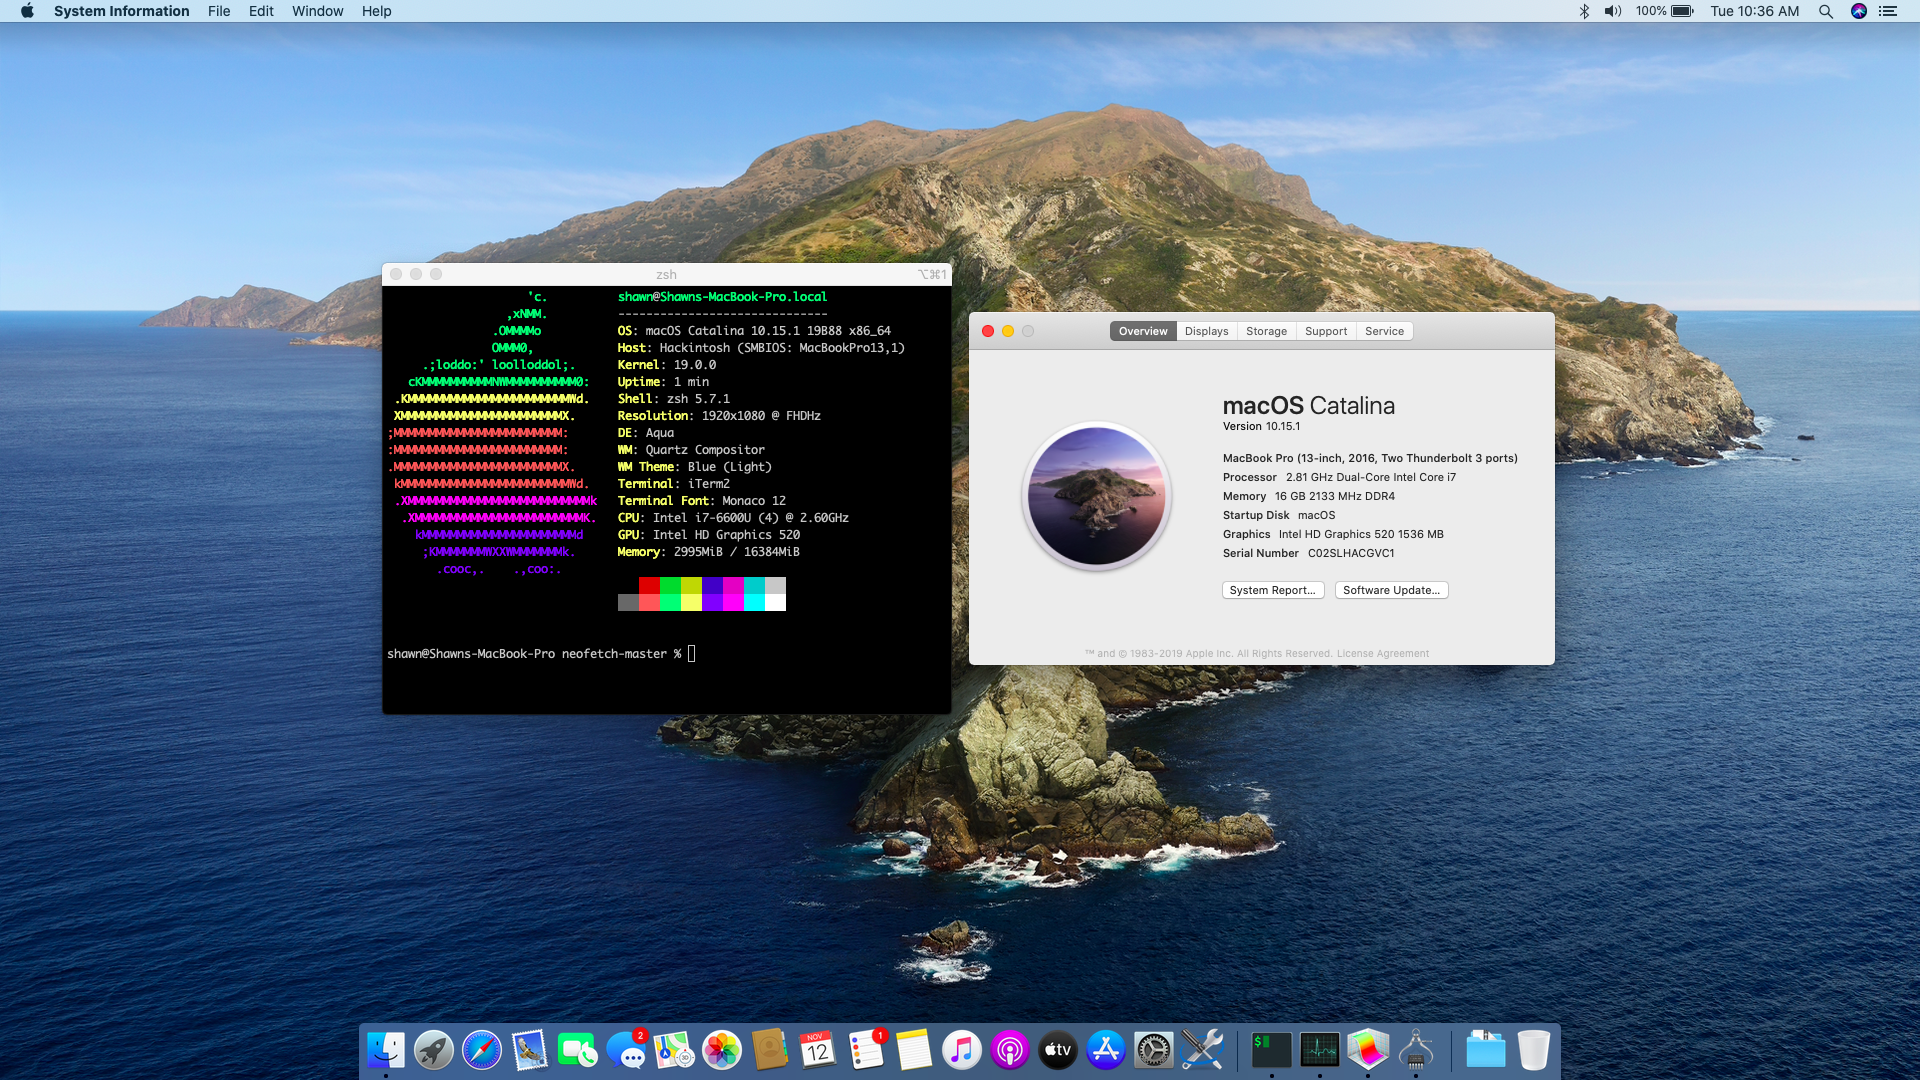
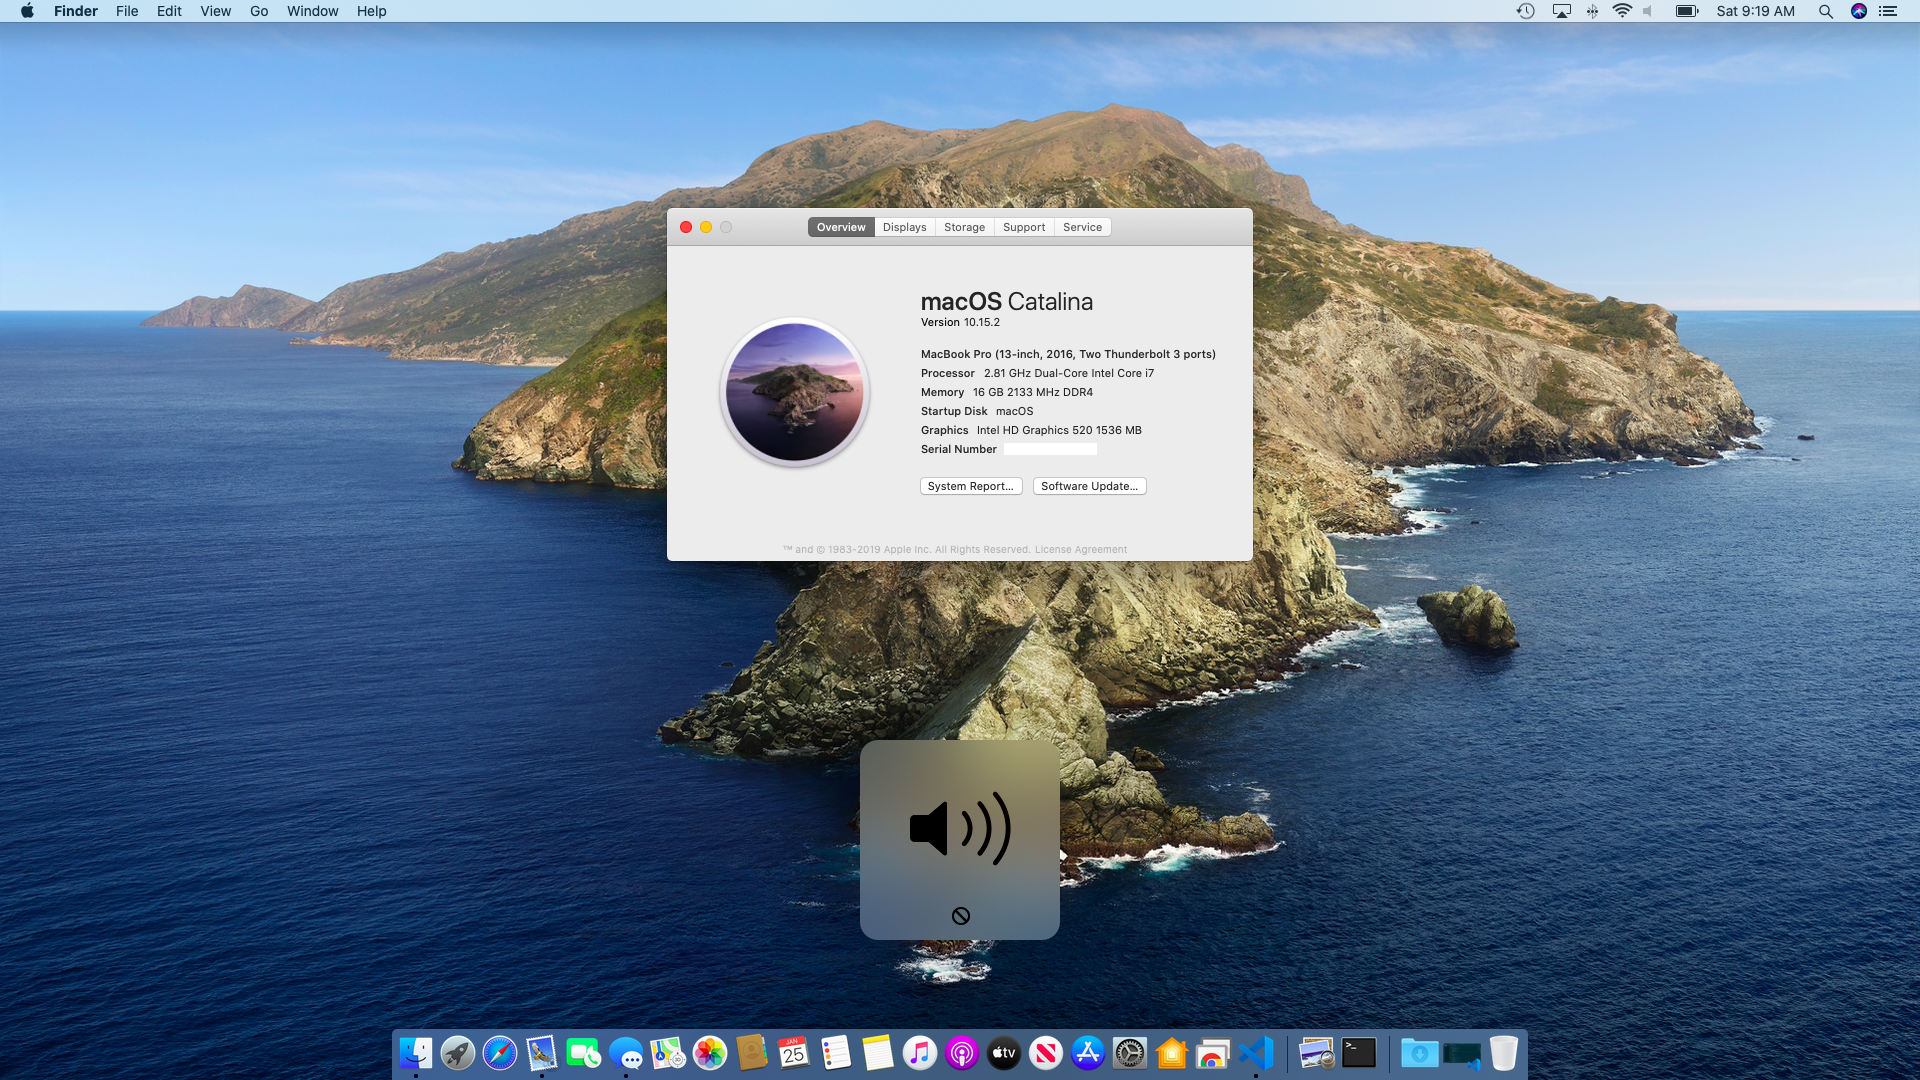
updated screenshot and readme

diff --git a/README.md b/README.md
@@ -1,11 +1,15 @@
 # Lenovo ThinkPad T470 (Type 20JM) Hackintosh
 
-_**Supports:** macOS Catalina 10.15.1 including iCloud, iMessage, FaceTime, etc._
+_**Supports:** macOS Catalina 10.15.x including iCloud, iMessage, FaceTime, etc._
 
 ![macOS Catalina on the ThinkPad T470](/macos-t470.png)
 
 ### Introduction
 This is my attempt at outlining the necessary configuration and dependencies to get macOS running on a ThinkPad T470. There's quite a lot of useful Reddit & forum posts, guides and other repositories here on GitHub that I was able to pull small bits of information from in order to make this guide. One problem that I discovered is that the T470 has shipped with many different hardware configurations making a one-size-fits-all approach impossible. Another other problem I found is that many of the sources I used didn't provide enough detail making the learning curve a little more challenging. In turn, I decided to create this for anyone else who may have recently purchased one of these T470 models (specifically, Type 20JM) that Lenovo has had on sale recently.
+
+### Changelog
+* 13 Nov 2019 - Initial release based on 10.15.1
+* 25 Jan 2020 - Updated to 10.15.2 and updated Lilu, WEG and AppleALC to latest
 
 ### Definitions
 This section is used to specify some abbreviations or acronyms you'll see either in this guide or elsewhere in the hackintosh community. It can be a little confusing following instructions if you don't know what certain things stand for.
